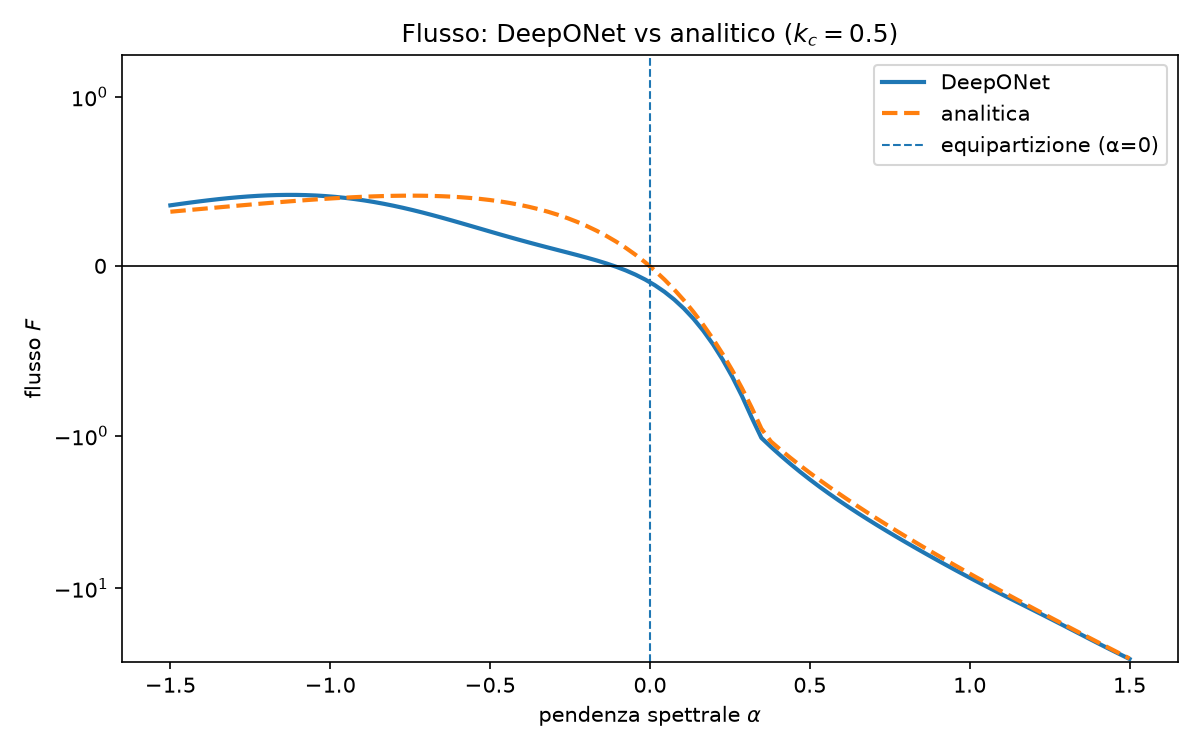
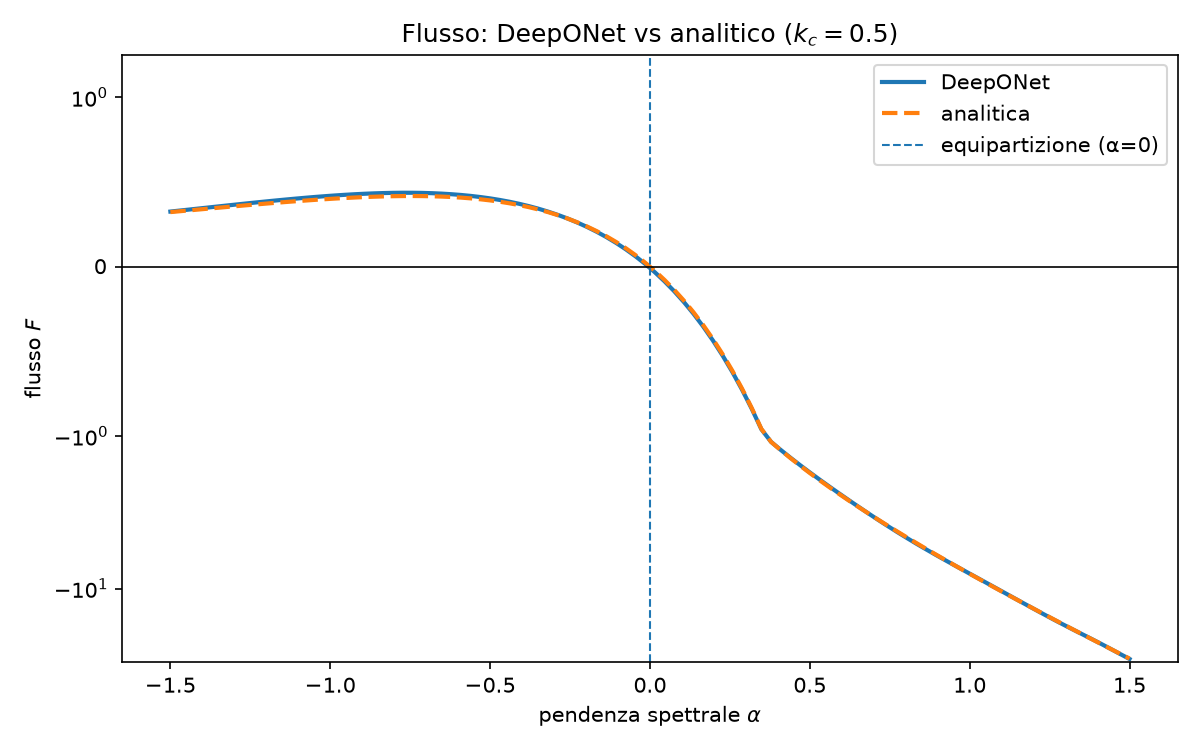
feat: increase dataset size and adjust training parameters for improved model performance

diff --git a/src/training/flux_validation_plots.py b/src/training/flux_validation_plots.py
@@ -42,33 +42,51 @@ def plot_flux_vs_alpha(model, alphas, A, k_min, k_max, sensor_grid, k_c, kz_line
         plt.show()
     plt.close()
 
-def plot_flux_vs_k(model, alphas, A, k_min, k_max, sensor_grid, k_c_values, save_path=None, show=True):
+def plot_flux_vs_k(model, alphas, A, k_min, k_max, sensor_grid, k_c_values, alpha_highlight= -5/3, save_path=None, show=True):
     """
     Mostra il flusso F in funzione di k_c, per uno o più profili n_k
     (uno per ciascun alpha in alphas), sovrapposti.
     """
     k_c_values = np.asarray(k_c_values)
+    k_c_t = torch.tensor(k_c_values, dtype=torch.float32).reshape(-1, 1)
 
-    plt.figure(figsize=(8, 5))
+    fig, (ax1, ax2) = plt.subplots(1, 2, figsize=(14, 5))
 
     for a in alphas:
         profile = A * sensor_grid ** (-a)
         profile_t = torch.tensor(profile, dtype=torch.float32).unsqueeze(0).repeat(len(k_c_values), 1)
-        k_c_t = torch.tensor(k_c_values, dtype=torch.float32).reshape(-1, 1)
+        
 
         with torch.no_grad():
             F_pred = model(profile_t, k_c_t).squeeze().numpy()
 
         F_true = A * (k_c_values ** (-a) - k_min ** (-a))
 
-        plt.plot(k_c_values, F_pred, linewidth=2, label=fr"DeepONet, $\alpha={a}$")
-        plt.plot(k_c_values, F_true, "--", linewidth=1.5, label=fr"analitica, $\alpha={a}$")
+        ax1.plot(k_c_values, F_pred, linewidth=2, label=fr"DeepONet, $\alpha={a}$")
+        ax1.plot(k_c_values, F_true, "--", linewidth=1.5, label=fr"analitica, $\alpha={a}$")
 
-    plt.axhline(0, color="black", linewidth=0.8)
-    plt.xlabel(r"$k_c$")
-    plt.ylabel(r"flusso $F$")
-    plt.title("Flusso in funzione di $k_c$, per diversi profili spettrali")
-    plt.legend(loc="center left", bbox_to_anchor=(0.8, 0.4))
+    ax1.axhline(0, color="black", linewidth=0.8)
+    ax1.set_xlabel(r"$k_c$")
+    ax1.set_ylabel(r"flusso $F$")
+    ax1.set_title("Flusso in funzione di $k_c$, per diversi profili spettrali")
+    ax1.legend(loc="center left", bbox_to_anchor=(0.8, 0.4))
+
+    profile_h = A * sensor_grid ** (-alpha_highlight)
+    profile_h_t = torch.tensor(profile_h, dtype=torch.float32).unsqueeze(0).repeat(len(k_c_values), 1)
+
+    with torch.no_grad():
+        F_pred_h = model(profile_h_t, k_c_t).squeeze().numpy()
+
+    F_true_h = A * (k_c_values ** (-alpha_highlight) - k_min ** (-alpha_highlight))
+
+    ax2.plot(k_c_values, F_pred_h, linewidth=2, color="steelblue", label="DeepONet")
+    ax2.plot(k_c_values, F_true_h, "--", linewidth=2, color="darkorange", label="analitica")
+    ax2.axhline(0, color="black", linewidth=0.8)
+    ax2.set_xlabel(r"$k_c$")
+    ax2.set_ylabel(r"flusso $F$")
+    ax2.set_title(fr"Flusso vs $k_c$, $\alpha={alpha_highlight:.3f}$")
+    ax2.legend()
+
     plt.tight_layout()
     if save_path:
         plt.savefig(save_path, dpi=150)

diff --git a/main_deeponet.py b/main_deeponet.py
@@ -10,21 +10,21 @@ from src.training.deeponet_analysis import (validate_dF_dkc, plot_dF_dkc_compari
 from src.training.flux_validation_plots import (plot_flux_vs_alpha, plot_flux_vs_k)
 from src.utils import config
 
-N_SENSORS = 20
+N_SENSORS = 200
 
 data = build_deeponet_dataset(
-    alpha_min=-3, alpha_max=3.0, n_samples=5000, A=1.0,   # range ampliato, include 0
+    alpha_min=-3, alpha_max=3.0, n_samples=25000, A=1.0,   # range ampliato, include 0
     k_min=config.K_MIN, k_max=config.K_MAX, n_sensors=N_SENSORS,
     k_c_min=0.2, k_c_max=0.9, noise_std=0.01
 )
 
-splits = split_deeponet_dataset(data, train_frac=0.7, val_frac=0.2, test_frac=0.1)
+splits = split_deeponet_dataset(data, train_frac=0.6, val_frac=0.2, test_frac=0.2)
 
 model = DeepONet(n_sensors=N_SENSORS, latent_dim=64, hidden=128)
 
 #model, history = train_deeponet(model, splits, epochs=6000, lr=1e-3)
 model, history = train_deeponet(
-    model, splits, epochs=6000, lr=1e-3,
+    model, splits, epochs=8000, lr=1e-3,
     sensor_grid=data["sensor_grid"], A=1.0,
     k_c_min=0.2, k_c_max=0.9, lambda_bc=1.0
 )
@@ -65,5 +65,6 @@ plot_flux_vs_k(
     model, alphas=[0.5, 1.0, 1.5, 2.0], A=1.0,
     k_min=config.K_MIN, k_max=config.K_MAX, sensor_grid=data["sensor_grid"],
     k_c_values=np.linspace(config.K_MIN + 0.05, config.K_MAX - 0.05, 100),
+    alpha_highlight=-5/3,
     save_path="outputs/flux_vs_k.png", show=False
 )

diff --git a/src/training/train_deeponet.py b/src/training/train_deeponet.py
@@ -3,7 +3,7 @@ import matplotlib.pyplot as plt
 from sklearn.model_selection import train_test_split
 
 
-def split_deeponet_dataset(data, train_frac=0.7, val_frac=0.2, test_frac=0.1, seed=42):
+def split_deeponet_dataset(data, train_frac=0.6, val_frac=0.2, test_frac=0.2, seed=42):
     n = data["profiles"].shape[0]
     idx = torch.arange(n)
 
@@ -64,7 +64,7 @@ def train_deeponet(model, splits, epochs=6000, lr=1e-3, device="cpu"):
     return model, history
 """
 
-def train_deeponet(model, splits, epochs=6000, lr=1e-3, device="cpu",
+def train_deeponet(model, splits, epochs=8000, lr=1e-3, device="cpu",
                     sensor_grid=None, A=1.0, k_c_min=0.2, k_c_max=0.9,
                     lambda_bc=1.0, n_bc_points=50):
     optimizer = torch.optim.Adam(model.parameters(), lr=lr, amsgrad=True)

diff --git a/src/models/deeponet.py b/src/models/deeponet.py
@@ -15,10 +15,14 @@ class DeepONet(nn.Module):
         self.branch = nn.Sequential(
             nn.Linear(n_sensors, hidden), nn.Tanh(),
             nn.Linear(hidden, hidden), nn.Tanh(),
+            nn.Linear(hidden, hidden), nn.Tanh(),
+            nn.Linear(hidden, hidden), nn.Tanh(),
             nn.Linear(hidden, latent_dim)
         )
         self.trunk = nn.Sequential(
             nn.Linear(1, hidden), nn.Tanh(),
+            nn.Linear(hidden, hidden), nn.Tanh(),
+            nn.Linear(hidden, hidden), nn.Tanh(),
             nn.Linear(hidden, hidden), nn.Tanh(),
             nn.Linear(hidden, latent_dim)
         )
